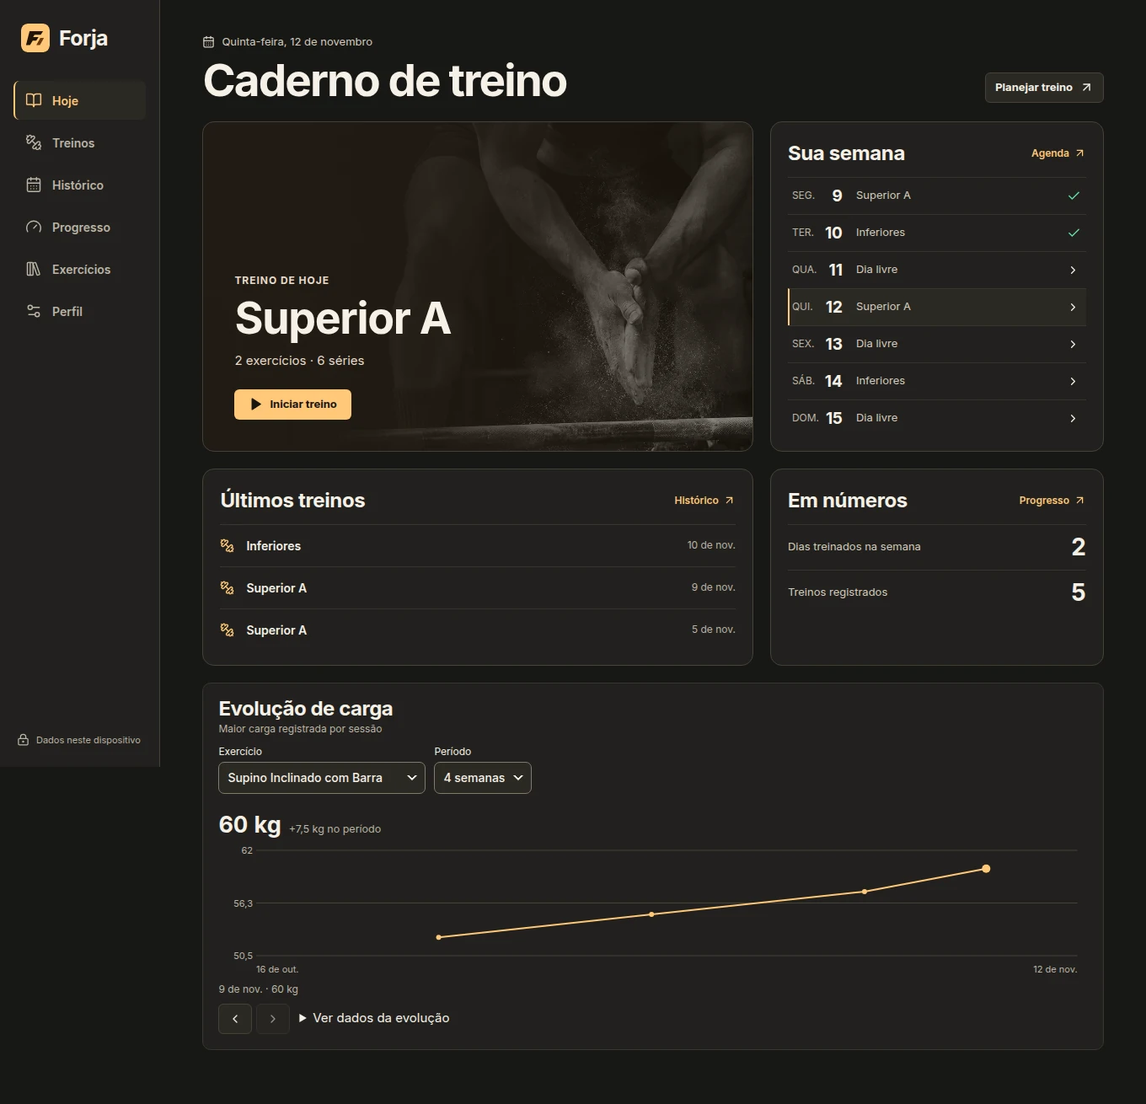
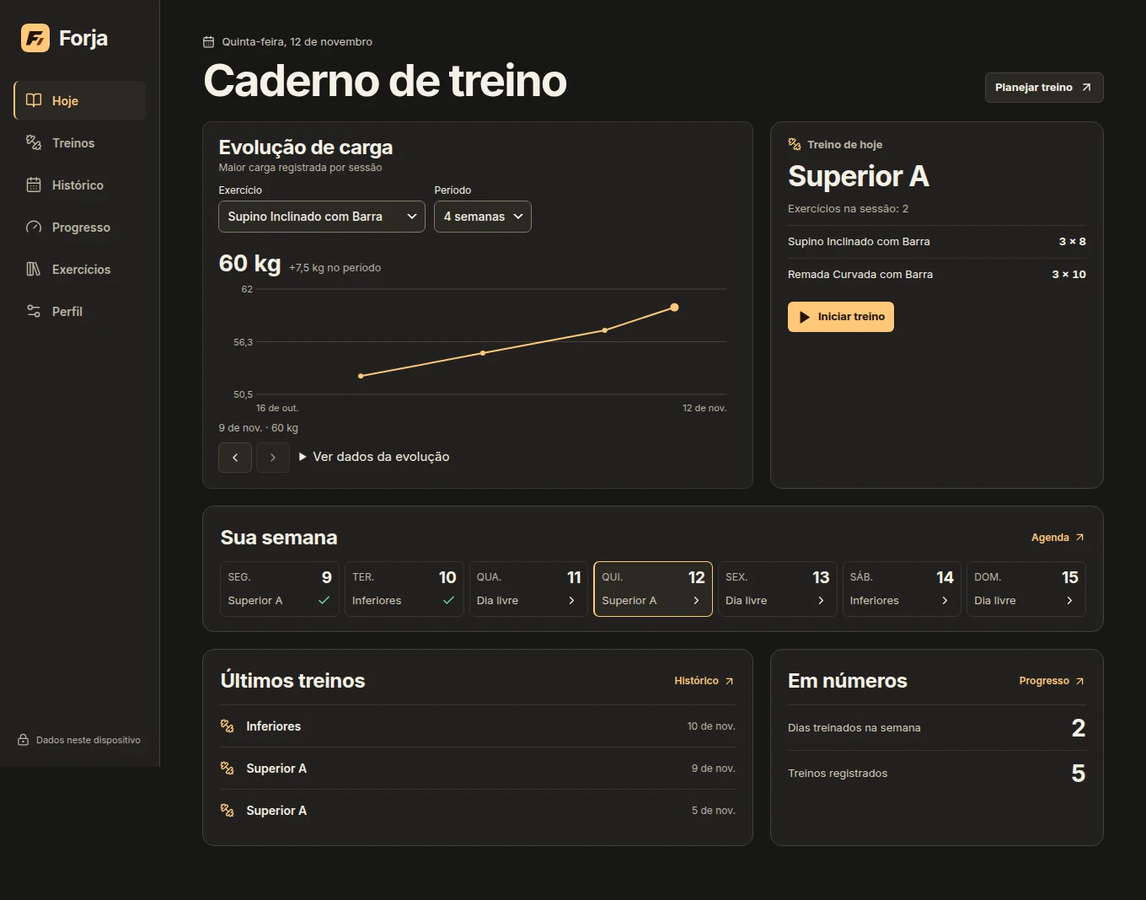
fix(web): restore the photo-free training dashboard
Place the load chart beside a compact workout summary on desktop, remove the decorative cover, and show Ollama setup and device status in the assistant.

diff --git a/apps/web/src/pages/Assistente.tsx b/apps/web/src/pages/Assistente.tsx
@@ -1,4 +1,4 @@
-import { useEffect, useRef, useState } from 'react';
+import { useCallback, useEffect, useRef, useState } from 'react';
 import { Link } from 'react-router-dom';
 import { ClipboardList } from 'lucide-react';
 import { useLiveQuery } from 'dexie-react-hooks';
@@ -17,6 +17,7 @@ export function Assistente() {
   const t = useT();
   const [end, setEnd] = useState(toISO(new Date()));
   const [providers, setProviders] = useState<Providers>();
+  const [connectionError, setConnectionError] = useState<SyncError>();
   const [model, setModel] = useState('');
   const [error, setError] = useState('');
   const [notice, setNotice] = useState('');
@@ -34,11 +35,26 @@ export function Assistente() {
   const preview = end && workouts && routines && exercises
     ? weeklyReview(end, workouts, routines, exercises, settings?.gymEquipment ?? []) : undefined;
 
-  async function refreshProvider() {
-    const next = await api<Providers>('/coach/providers');
-    setProviders(next);
-    setModel((current) => next.models.includes(current) ? current : (next.models[0] ?? ''));
-  }
+  const refreshProvider = useCallback(async (initializeDate = false) => {
+    try {
+      const session = await sessionInfo();
+      if (initializeDate) {
+        const parts = new Intl.DateTimeFormat('en-CA', {
+          year: 'numeric', month: '2-digit', day: '2-digit', timeZone: session.timeZone,
+        }).formatToParts(new Date());
+        setEnd(['year', 'month', 'day'].map((part) => parts.find((item) => item.type === part)?.value).join('-'));
+      }
+      if (!session.device) throw new SyncError('PAIR_REQUIRED');
+      const next = await api<Providers>('/coach/providers');
+      setProviders(next);
+      setModel((current) => next.models.includes(current) ? current : (next.models[0] ?? ''));
+      setConnectionError(undefined);
+    } catch (error) {
+      setProviders(undefined);
+      setModel('');
+      setConnectionError(error instanceof SyncError ? error : new SyncError('SERVER_ERROR'));
+    }
+  }, []);
   async function run(work: () => Promise<void>) {
     setBusy(true);
     setError('');
@@ -49,15 +65,17 @@ export function Assistente() {
   }
 
   useEffect(() => {
-    void sessionInfo().then(async (session) => {
-      const parts = new Intl.DateTimeFormat('en-CA', {
-        year: 'numeric', month: '2-digit', day: '2-digit', timeZone: session.timeZone,
-      }).formatToParts(new Date());
-      setEnd(['year', 'month', 'day'].map((part) => parts.find((item) => item.type === part)?.value).join('-'));
-      if (session.device) await refreshProvider();
-    }).catch(() => {});
+    void refreshProvider(true);
     return () => call.current?.abort();
-  }, []);
+  }, [refreshProvider]);
+
+  const noServer = connectionError?.code === 'NO_SERVER';
+  const needsPairing = connectionError?.code === 'PAIR_REQUIRED';
+  const providerStatus = noServer ? t('coach.serverRequired')
+    : needsPairing ? t('coach.deviceRequired')
+    : connectionError ? syncMessage(connectionError, t)
+    : providers ? (providers.available ? 'Ollama' : t('coach.unavailable'))
+    : t('coach.checking');
 
   function generate() {
     if (!preview || !routines) return;
@@ -154,21 +172,25 @@ export function Assistente() {
         </section>
         <section className="card self-host-card">
           <h2>{t('coach.provider')}</h2>
-          <p>{providers?.available ? 'Ollama' : t('coach.unavailable')}</p>
-          {providers && !providers.models.length && <p className="hint">{t('coach.modelUnavailable')}</p>}
+          <p role="status">{providerStatus}</p>
+          {providers?.available && !providers.models.length && <p className="hint">{t('coach.modelUnavailable')}</p>}
           {providers && providers.models.length > 0 && (
             <label>{t('coach.model')}<select disabled={busy} value={model} onChange={(event) => setModel(event.target.value)}>
               {providers.models.map((name) => <option key={name}>{name}</option>)}
             </select></label>
           )}
           <div className="self-host-actions">
-            <button type="button" className="btn ghost" disabled={busy} onClick={() => void run(refreshProvider)}>{t('coach.refresh')}</button>
-            <button type="button" className="btn ghost" disabled={busy || !model} onClick={() => void run(async () => {
-              await post('/coach/test', { model });
-              setNotice(t('coach.testOk'));
-            })}>{t('coach.test')}</button>
+            {!noServer && !needsPairing && (
+              <button type="button" className="btn ghost" disabled={busy || !(providers || connectionError)} onClick={() => void run(() => refreshProvider())}>{t('coach.refresh')}</button>
+            )}
+            {providers && (
+              <button type="button" className="btn ghost" disabled={busy || !model} onClick={() => void run(async () => {
+                await post('/coach/test', { model });
+                setNotice(t('coach.testOk'));
+              })}>{t('coach.test')}</button>
+            )}
+            {!noServer && <Link className="btn ghost" to="/perfil/dispositivos">{t('sync.devices')}</Link>}
           </div>
-          <Link className="btn ghost" to="/perfil/dispositivos">{t('sync.devices')}</Link>
         </section>
       </div>
     </>

diff --git a/apps/web/src/pages/Home.tsx b/apps/web/src/pages/Home.tsx
@@ -22,6 +22,9 @@ export function Home() {
       const id = effectiveRoutine(date, plan, overrides);
       return id === null ? undefined : routineById.get(id);
     };
+    const todayRoutine = routineOn(today);
+    const preview = todayRoutine?.exercises.slice(0, 3) ?? [];
+    const exerciseNames = await db.exercises.bulkGet(preview.map(({ exerciseId }) => exerciseId));
     const start = startOfWeek(today, settings?.weekStartsOn ?? 1);
     const completedDates = new Set(workouts.map((workout) => workout.dateISO));
     const next = Array.from({ length: 14 }, (_, offset) => {
@@ -33,7 +36,11 @@ export function Home() {
       return { date, routine: routineOn(date), completed: completedDates.has(date) };
     });
     return {
-      lang: settings?.lang, todayRoutine: routineOn(today), next, week, routineById, total: workouts.length, latestWeight,
+      lang: settings?.lang, todayRoutine, next, week, routineById, total: workouts.length, latestWeight,
+      todayExercises: preview.flatMap((item, index) => {
+        const exercise = exerciseNames[index];
+        return exercise ? [{ name: exercise.name, sets: item.sets, reps: item.targetReps }] : [];
+      }),
       streak: computeStreak([...completedDates], today),
       ready: routines.some((routine) => routine.exercises.length > 0),
       recent: workouts.sort((a, b) => compareWorkouts(b, a)).slice(0, 3),
@@ -65,31 +72,39 @@ export function Home() {
       </header>
 
       <div className="journal-grid">
-        <section className="journal-session" aria-labelledby="today-workout">
-          <div className="journal-session-content">
-            <p className="journal-session-label">{active ? t("ui.activeSession") : t("home.today")}</p>
-            <h2 id="today-workout">{title}</h2>
-            {active ? (
-              <p>{t('ui.sessionExercisesCount', [active.exercises.length])}</p>
-            ) : hasToday ? (
-              <p>{routine.exercises.length} exercícios · {routine.exercises.reduce((count, exercise) => count + exercise.sets, 0)} séries</p>
-            ) : firstVisit ? (
-              <p>{t("ui.chooseFirst")}</p>
-            ) : dashboard ? (
-              <p>{dashboard.next?.routine
-                ? `Próximo treino: ${dashboard.next.routine.name} · ${dateShort.format(fromISO(dashboard.next.date))}`
-                : t("ui.noScheduled")}</p>
-            ) : (
-              <p role="status">{t("ui.agendaLoading")}</p>
-            )}
-            {active || hasToday ? (
-              <Link className="btn journal-start" to="/treino"><Play size={17} fill="currentColor" aria-hidden />{active ? t("home.continue") : t("home.start")}</Link>
-            ) : firstVisit ? (
-              <Link className="btn journal-start" to="/treinos?planos=1">{t("ui.startWithPlan")} <ArrowRight size={18} aria-hidden /></Link>
-            ) : dashboard ? (
-              <Link className="btn journal-start" to="/treinos">{t("ui.chooseRoutine")} <ArrowRight size={18} aria-hidden /></Link>
-            ) : null}
-          </div>
+        <section className="journal-panel journal-session" aria-labelledby="today-workout">
+          <p className="journal-session-label"><Dumbbell size={16} aria-hidden />{active ? t("ui.activeSession") : t("home.today")}</p>
+          <h2 id="today-workout">{title}</h2>
+          {active ? (
+            <p>{t('ui.sessionExercisesCount', [active.exercises.length])}</p>
+          ) : hasToday ? (
+            <p>{t('ui.sessionExercisesCount', [routine.exercises.length])}</p>
+          ) : firstVisit ? (
+            <p>{t("ui.chooseFirst")}</p>
+          ) : dashboard ? (
+            <p>{dashboard.next?.routine
+              ? `Próximo treino: ${dashboard.next.routine.name} · ${dateShort.format(fromISO(dashboard.next.date))}`
+              : t("ui.noScheduled")}</p>
+          ) : (
+            <p role="status">{t("ui.agendaLoading")}</p>
+          )}
+          {!active && !!dashboard?.todayExercises.length && (
+            <ul className="journal-routine-preview">
+              {dashboard.todayExercises.map(({ name, sets, reps }, index) => (
+                <li key={index}>
+                  <span>{name}</span>
+                  <strong>{reps ? `${sets} × ${reps}` : t('ui.sessionSetsCount', [sets])}</strong>
+                </li>
+              ))}
+            </ul>
+          )}
+          {active || hasToday ? (
+            <Link className="btn journal-start" to="/treino"><Play size={17} fill="currentColor" aria-hidden />{active ? t("home.continue") : t("home.start")}</Link>
+          ) : firstVisit ? (
+            <Link className="btn journal-start" to="/treinos?planos=1">{t("ui.startWithPlan")} <ArrowRight size={18} aria-hidden /></Link>
+          ) : dashboard ? (
+            <Link className="btn journal-start" to="/treinos">{t("ui.chooseRoutine")} <ArrowRight size={18} aria-hidden /></Link>
+          ) : null}
         </section>
 
         <LoadTrend />

diff --git a/apps/web/src/styles/journal.css b/apps/web/src/styles/journal.css
@@ -55,40 +55,32 @@
 .journal-plan { flex-shrink: 0; white-space: nowrap; }
 .journal-grid { display: grid; gap: var(--gap); min-width: 0; }
 .journal-grid > * { min-width: 0; }
-.journal-session {
-  position: relative;
-  overflow: hidden;
-  display: grid;
-  align-content: end;
-  min-height: clamp(270px, 32vw, 350px);
-  padding: clamp(20px, 4vw, 37px);
-  border-radius: var(--r-lg);
-  background-color: #221d16;
-  color: #f5f0e6;
-  background-image: linear-gradient(100deg, #211b13 3%, rgb(32 26 18 / 95%) 36%, rgb(25 22 17 / 32%) 100%), url('../assets/forja-training.webp');
-  background-blend-mode: normal, luminosity;
-  background-size: cover;
-  background-position: center, 66% center;
-  border: 1px solid var(--border);
+.journal-session { align-content: start; display: grid; gap: 10px; }
+.journal-session > p { color: var(--text-muted); font-size: 13px; }
+.journal-session-label {
+  display: flex;
+  align-items: center;
+  gap: 7px;
+  font-weight: 650;
 }
-.journal-session-content { max-width: 490px; }
-.journal-session-content > p { color: #e4dacc; }
-.journal-session-label { font-size: 12px; font-weight: 700; letter-spacing: 0.08em; text-transform: uppercase; margin-bottom: 9px; }
+.journal-session-label svg { color: var(--accent); }
 .journal-session h2 {
-  font: 700 clamp(30px, 4vw, 52px)/1.02 var(--font-heading);
+  font: 700 clamp(24px, 3vw, 34px)/1.08 var(--font-heading);
   letter-spacing: -0.025em;
   overflow-wrap: anywhere;
-  margin-bottom: 13px;
 }
-.journal-session .journal-start {
-  --session-cta: var(--accent-dark, #bdb4ff);
-  margin-top: 22px;
-  padding-inline: 17px;
-  background: var(--session-cta);
-  color: #191511;
+.journal-routine-preview { list-style: none; }
+.journal-routine-preview li {
+  display: flex;
+  justify-content: space-between;
+  gap: 12px;
+  padding-block: 9px;
+  border-top: 1px solid var(--border-soft);
+  font-size: 13px;
 }
-.journal-session .journal-start:focus-visible { outline-color: #fff3df; }
-.journal-session .journal-start:hover { background: color-mix(in srgb, var(--session-cta) 82%, white); }
+.journal-routine-preview li span { overflow-wrap: anywhere; }
+.journal-routine-preview strong { white-space: nowrap; font-variant-numeric: tabular-nums; }
+.journal-session .journal-start { justify-self: start; margin-top: 4px; }
 
 .journal-panel { background: var(--surface); border: 1px solid var(--border); border-radius: var(--r-lg); padding: 17px 20px; }
 .journal-panel-heading { display: flex; align-items: center; justify-content: space-between; gap: 8px; margin-bottom: 8px; }
@@ -166,15 +158,25 @@
 }
 @media (min-width: 1030px) {
   .journal-grid { grid-template-columns: minmax(0, 1.65fr) minmax(260px, 1fr); align-items: stretch; }
-  .journal-week { grid-column: 2; grid-row: 1; }
-  .journal-recent { grid-column: 1; grid-row: 2; }
-  .journal-stats { grid-column: 2; grid-row: 2; }
+  .journal-grid > .load-trend { grid-column: 1; grid-row: 1; }
+  .journal-session { grid-column: 2; grid-row: 1; }
+  .journal-week { grid-column: 1 / -1; }
+  .journal-days { display: grid; grid-template-columns: repeat(7, minmax(0, 1fr)); gap: 6px; }
+  .journal-days a {
+    grid-template-columns: minmax(0, 1fr) 18px;
+    align-content: start;
+    padding: 9px 8px;
+    border: 1px solid var(--border-soft);
+    border-radius: var(--r-sm);
+    height: 100%;
+  }
+  .journal-days a[aria-current="date"] { border-color: var(--accent); padding-inline-start: 8px; }
+  .journal-days time { grid-column: 1 / -1; padding-right: 0; }
 }
 @media (max-width: 540px) {
   .journal-heading { align-items: start; flex-direction: column; gap: 12px; }
   .journal-plan { min-height: var(--control-h); }
   .journal-grid { gap: 14px; }
-  .journal-session { min-height: 258px; background-position: center, 59% center; }
   .journal-panel { padding-inline: 14px; }
 }
 
@@ -292,7 +294,6 @@
 
 @media (max-width: 399px) {
   .journal-heading h1 { font-size: 34px; }
-  .journal-session h2 { font-size: 34px; }
   .routine-list-row { flex-wrap: wrap; }
   .routine-list-row .routine-item { flex: 1 0 100%; }
 }

diff --git a/apps/web/src/lib/expansion-messages.ts b/apps/web/src/lib/expansion-messages.ts
@@ -129,6 +129,9 @@ export const expansionMessages = {
     'coach.undone': 'Rotina restaurada.',
     'coach.stale': 'A rotina ou o exercício mudou. Gere uma nova revisão.',
     'coach.provider': 'Provedor',
+    'coach.checking': 'Verificando a instalação da Forja…',
+    'coach.serverRequired': 'Para usar o Ollama, abra a Forja no endereço da sua instalação self-hosted. Na sua máquina, rode pnpm build e pnpm self-host.',
+    'coach.deviceRequired': 'Em Dispositivos, identifique-se como dono ou pareie este aparelho para acessar o Ollama.',
     'coach.model': 'Modelo',
     'coach.unavailable': 'O Ollama está indisponível nesta instalação.',
     'coach.modelUnavailable': 'Instale um modelo local no Ollama e atualize a lista.',
@@ -294,6 +297,9 @@ export const expansionMessages = {
     'coach.undone': 'Routine restored.',
     'coach.stale': 'The routine or exercise changed. Generate a new review.',
     'coach.provider': 'Provider',
+    'coach.checking': 'Checking the Forja installation…',
+    'coach.serverRequired': 'To use Ollama, open your self-hosted Forja address. On your computer, run pnpm build and pnpm self-host.',
+    'coach.deviceRequired': 'In Devices, sign in as owner or pair this device to access Ollama.',
     'coach.model': 'Model',
     'coach.unavailable': 'Ollama is unavailable on this installation.',
     'coach.modelUnavailable': 'Install a local Ollama model and refresh the list.',

diff --git a/apps/web/src/lib/i18n.ts b/apps/web/src/lib/i18n.ts
@@ -22,6 +22,7 @@ const messages: Record<Lang, Record<string, string>> = {
   // ── Português (fonte-de-verdade) ──────────────────────────────────────────
   pt: {
     "ui.sessionExercisesCount": "Exercícios na sessão: {0}",
+    "ui.sessionSetsCount": "Séries: {0}",
     "ui.moreExercises": "Carregar mais ({0} restantes)",
     "ui.exercisesTotal": "{0} exercício{1}",
     "ui.planExisting": "Rotinas já existentes: {0}",
@@ -684,6 +685,7 @@ const messages: Record<Lang, Record<string, string>> = {
   // ── English ───────────────────────────────────────────────────────────────
   en: {
     "ui.sessionExercisesCount": "Exercises in this session: {0}",
+    "ui.sessionSetsCount": "Sets: {0}",
     "ui.moreExercises": "Load more ({0} remaining)",
     "ui.exercisesTotal": "{0} exercise{1}",
     "ui.planExisting": "Existing routines: {0}",

diff --git a/.specs/features/self-hosted-assistant/UX-UI.md b/.specs/features/self-hosted-assistant/UX-UI.md
@@ -13,7 +13,7 @@ A Forja combina a agenda semanal com a evolução de carga em um exercício. A l
 | **TrainingPeaks**, conceito independente no Behance, explora planejamento e acompanhamento no celular. | Usar como referência para a hierarquia móvel. Manter o controle de período próximo da métrica e empilhar blocos por utilidade. [Case no Behance](https://www.behance.net/gallery/99805437/TrainingPeaks-Mobile-Application-Redesign-Concept) |
 | **Signal** reúne vínculo por QR e gestão de aparelhos em configurações. | Manter pareamento, status e revogação em Perfil, com digitação manual e aprovação próprias da Forja. [Dispositivos vinculados do Signal](https://support.signal.org/hc/en-us/articles/360007320551-Linked-Devices) |
 
-- **Desktop.** Em [Hoje](prototipo/index.html#hoje), evolução de carga e treino do dia ficam lado a lado, com o último treino na coluna auxiliar e a semana abaixo. O CTA **Iniciar treino** fica no cabeçalho. Use bordas discretas e ações alinhadas ao campo ou à seção.
+- **Desktop.** Em [Hoje](prototipo/index.html#hoje), evolução de carga e treino do dia ficam lado a lado, com o último treino na coluna auxiliar e a semana abaixo. O CTA **Iniciar treino** fica no painel do treino do dia, junto da prévia de exercícios. Use bordas discretas e ações alinhadas ao campo ou à seção.
 - **Celular.** Em [Hoje](prototipo/index.html#hoje), preservar **Iniciar treino** antes da primeira rolagem e empilhar gráfico, treino e semana. Em [Treino ativo](prototipo/index.html#treino), priorizar séries editáveis, carga anterior e descanso. O gráfico fica em Hoje e Progresso. A execução mantém espaço para os campos e o teclado.
 - **Conteúdo visual.** Usar gráficos e informações de treino no lugar das imagens decorativas do dashboard. Usar as demonstrações já creditadas onde a mídia explica o movimento. O pareamento usa um QR gerado pela instalação e ícones funcionais.
 - **Adoção.** O protótipo inclui Hoje, Progresso, Editor de rotina, Histórico, Treino ativo, Perfil, Dispositivos e Assistente. O Claude pode propor adotar os componentes compartilhados por etapa. Preservar sessão ativa, agenda, biblioteca, Histórico e regras de progressão.

diff --git a/.specs/project/STATE.md b/.specs/project/STATE.md
@@ -20,7 +20,7 @@ Atualizado em 15/11/2026. Leia primeiro [PROJECT](PROJECT.md), [PRD](PRD.md) e [
 ## Caderno de treino · revisão local
 
 - A Home reúne treino do dia, agenda com link por data, registros recentes e métricas. O desktop usa navegação lateral e painéis em colunas. No celular, a navegação inferior inclui a biblioteca.
-- A identidade usa um monograma F geométrico e a paleta Âmbar com grafite, laranja e off-white. Inter é a fonte dos títulos e formulários. Barlow Condensed aparece em métricas. A fotografia da Home, as fontes e os ícones da PWA fazem parte do build offline.
+- A identidade usa um monograma F geométrico e a paleta Âmbar com grafite, laranja e off-white. Inter é a fonte dos títulos e formulários. Barlow Condensed aparece em métricas. A tela Hoje usa o gráfico de carga, a prévia da rotina e a agenda. As fontes, os ícones e as demonstrações dos exercícios fazem parte do build offline.
 - Biblioteca com atlas MuscleMap (MIT) nas duas figuras e suas vistas de frente/costas, 48 entradas com demonstração local, controles de posição, créditos, filtros por músculos auxiliares e inventário próprio. Progresso oferece séries, volume de carga e último treino.
 - Aquecimentos de repetições são opcionais e persistem em `warmupSets` no rascunho e no log. O histórico permite corrigir as séries. Hevy importa o tipo de série e o backup v2 conserva aquecimento e inventário. Progressão, volume e recordes consultam séries de trabalho.
 - Histórico com barra de busca e rotina acima da lista, contagem e ação de limpar. Formulários têm rótulos associados, aparência compartilhada, ações compactas e feedback. O Perfil grava descanso e meta por envio explícito. O tema explícito se sobrepõe à preferência do SO, e o modo Sistema acompanha a preferência.

diff --git a/CLAUDE.md b/CLAUDE.md
@@ -9,6 +9,7 @@
 - Treinos can delete one routine or all routines from a starter plan. Agenda cleanup and history name snapshots are atomic. Keep the confirmation and feedback messages in the PT/EN pass.
 - P5-003 has a persisted PT/EN selector in Profile, a reactive document language, translated controls and structured progression reasons. See the [i18n spec](.specs/features/i18n/spec.md) for the remaining copy and locale audit.
 - The optional self-hosted server, device pairing and sync, Ollama review and load trend are implemented. The [README](README.md#sincronizar-pc-e-celular) has setup instructions. The [handoff](.specs/features/self-hosted-assistant/IMPLEMENTACAO.md#implementação-do-piloto) records the browser and API checks, a successful generation with local Ollama `qwen2.5:7b`, and the remaining physical-device and dedicated Codex CLI checks.
+- The Today dashboard pairs the load chart with a compact workout summary. Exercise illustrations remain in the exercise library and Guided Workout. The assistant shows the setup step when the frontend runs without its self-hosted API.
 - P11–P13 are implemented. Guided Workout has an exercise guide with licensed demos, the atlas and a YouTube name search while the rest countdown runs inline. History includes date ranges, per-session details and the atlas for completed working sets. See [verification](.specs/features/self-hosted-assistant/IMPLEMENTACAO.md#treino-e-histórico-aprovados) and [app screenshots](README.md#telas).
 - Validate with `pnpm test`, `pnpm typecheck` and `pnpm build`. Record remaining real-device checks in STATE when updating implementation.
 - Product planning in the vault is under `~/Documentos/planning-vault/projetos/forja/`.

diff --git a/README.md b/README.md
@@ -19,7 +19,7 @@
 
 ## Telas
 
-[![Forja no desktop. Caderno de treino com a sessão de hoje, agenda semanal e últimos treinos.](assets/screenshots/hoje-desktop.webp)](assets/screenshots/hoje-desktop.webp)
+[![Forja no desktop. Caderno de treino com evolução de carga, sessão de hoje e agenda semanal.](assets/screenshots/hoje-desktop.webp)](assets/screenshots/hoje-desktop.webp)
 
 <table>
   <tr>
@@ -155,6 +155,8 @@ Se você já usava a Forja em outro endereço, exporte um backup JSON de lá e i
 Para copiar a instalação inteira, pare o servidor e copie a pasta de dados, incluindo a chave do dono e os arquivos do SQLite. Guarde a cópia em local privado. Restaure com o servidor parado e confira o vínculo dos aparelhos ao voltar. A janela de revisão usa o fuso de `FORJA_TIME_ZONE` ou o fuso do host.
 
 ## Assistente local
+
+O Assistente usa a API da instalação self-hosted. Rode `pnpm build` e `pnpm self-host`, abra **http://127.0.0.1:8787** e identifique-se como dono ou pareie o aparelho em **Perfil → Dispositivos**. `npm run dev` e `pnpm dev` abrem a interface de desenvolvimento na porta 5577. Se seus treinos estão no endereço de desenvolvimento, exporte um backup em **Perfil → Seus dados** e importe no endereço self-hosted.
 
 Com o Ollama e um modelo local instalados no host, abra **Perfil → Assistente de treino**. Use **Atualizar modelos**, teste o modelo e confira o período e os dados que serão usados antes de gerar uma revisão. O endpoint padrão é `http://127.0.0.1:11434`. Use `FORJA_OLLAMA_URL` se a instância estiver em outro endereço administrado por você.
 

diff --git a/.specs/features/self-hosted-assistant/IMPLEMENTACAO.md b/.specs/features/self-hosted-assistant/IMPLEMENTACAO.md
@@ -7,7 +7,7 @@ Documentos da expansão: [PRD](PRD.md), [TRD](TRD.md), [SDD](SDD.md) e [UX/UI](U
 - F6-01 a F6-03 usam Node.js 24 e SQLite, sessão de aparelho por cookie, QR ou código e fila transacional do Dexie. A PWA conserva o uso local sem vínculo.
 - F6-04 lista modelos locais do Ollama, mostra a prévia da semana, valida as sugestões e aplica ou desfaz uma troca na versão esperada da rotina. Aplicar e desfazer foram testados com Ollama simulado. A geração com dados fictícios foi confirmada no Ollama local com `qwen2.5:7b`, que retornou uma sugestão válida.
 - F6-05 fornece uma prova opt-in do Codex CLI em Linux isolada por Bubblewrap. Validar em ambiente com login dedicado antes de considerar uma integração para dados reais.
-- P10 mostra a maior carga por exercício em Hoje e Progresso, com janela de 4 ou 8 semanas, pontos, navegação por teclado e tabela.
+- P10 mostra a maior carga por exercício em Hoje e Progresso, com janela de 4 ou 8 semanas, pontos, navegação por teclado e tabela. Hoje reúne gráfico, prévia da rotina e agenda. O Assistente informa quando o endereço local precisa da API self-hosted ou quando falta parear o aparelho.
 - O teste de navegador usa dois contextos independentes, simula desconexão, confirma a chegada de uma única sessão após reconectar e resolve a edição concorrente de uma rotina. Validar em PC e celular físicos com HTTPS em LAN ou VPN e medir os tempos de pareamento e reconexão.
 
 ## Questões registradas no planejamento original
